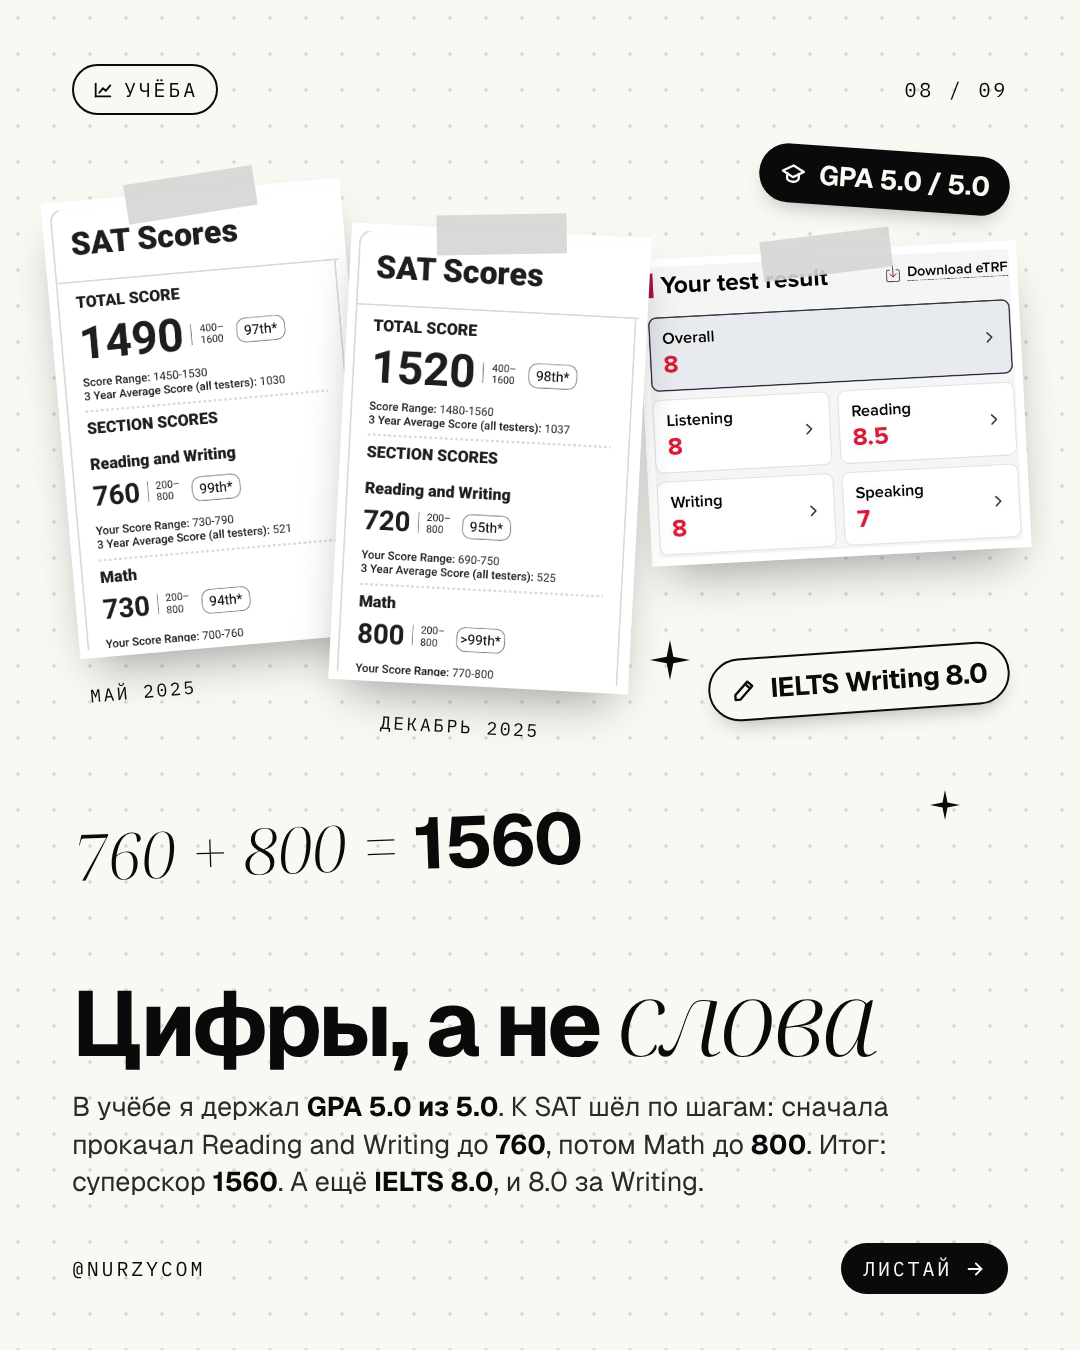
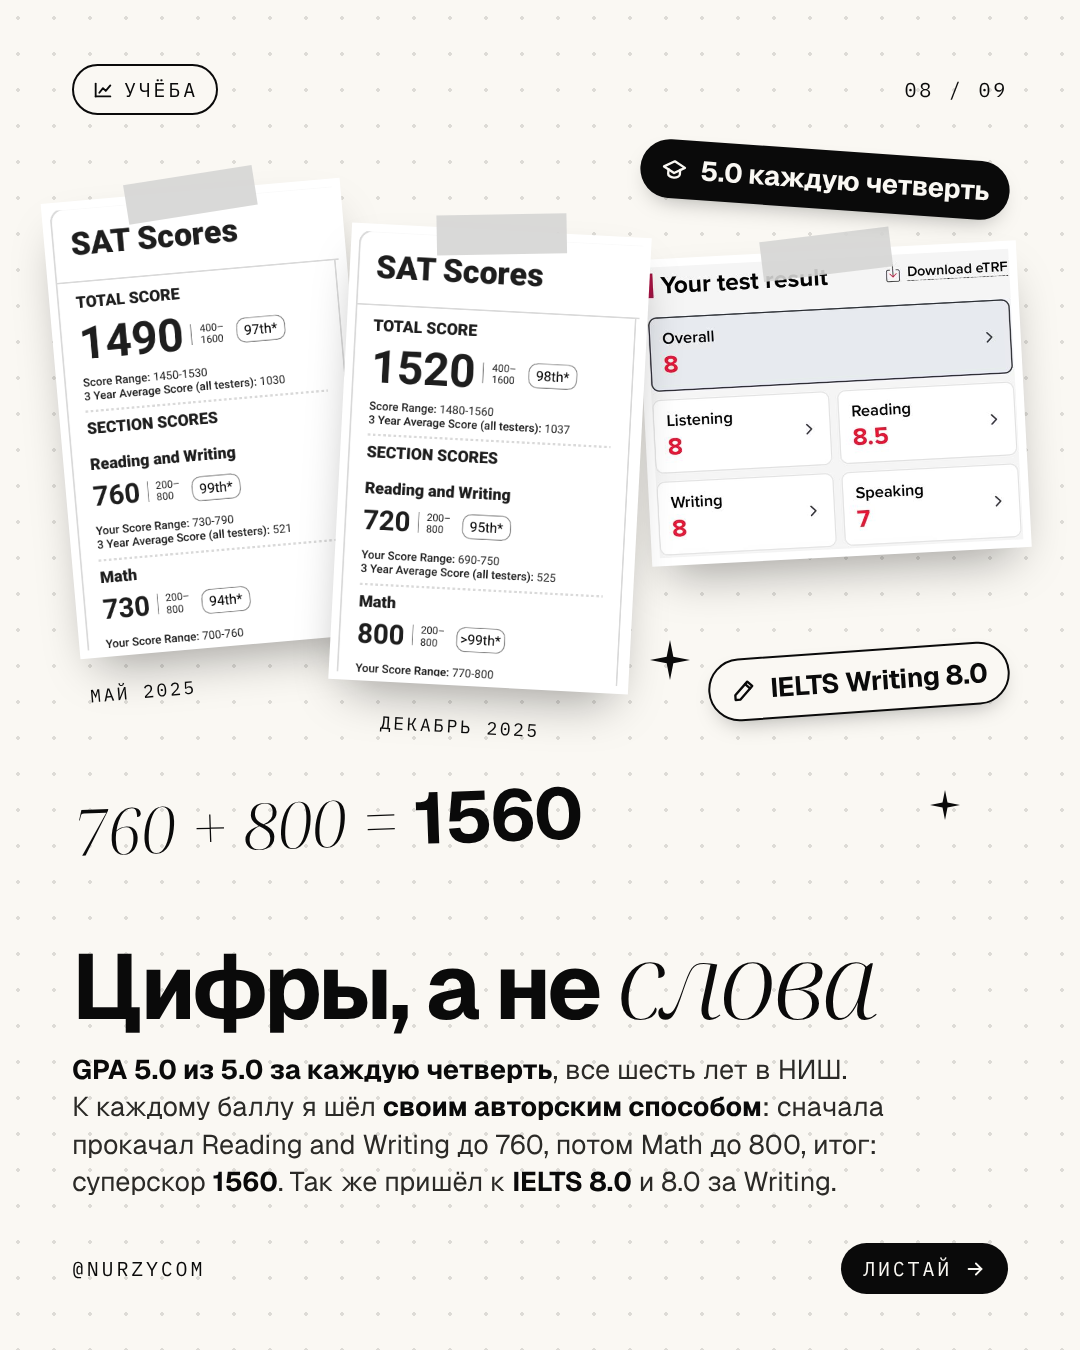
Story slide 8: GPA every quarter, scores reached with his own method
Claude-Session: https://claude.ai/code/session_01EUKBNPzc7y2DXSfnei23HU

diff --git a/social/story/slide-08.html b/social/story/slide-08.html
@@ -61,7 +61,7 @@
   .swipe { display: inline-flex; align-items: center; gap: 12px; padding: 12px 22px; background: var(--ink); color: var(--paper); border-radius: 999px; }
   svg.i { fill: none; stroke: currentColor; stroke-width: 2; stroke-linecap: round; stroke-linejoin: round; }
   .text { position: absolute; left: 72px; right: 72px; bottom: 150px; }
-  .text .sub { max-width: 48ch; font-size: 27px; line-height: 1.38; }
+  .text .sub { max-width: 50ch; font-size: 27px; line-height: 1.38; }
   .doc { position: absolute; background: #fff; padding: 8px; box-shadow: 0 24px 50px -18px rgba(10,10,10,.4); }
   .doc img { display: block; width: 100%; }
   .d1 { left: 60px; top: 190px; width: 300px; transform: rotate(-5deg); }
@@ -75,7 +75,7 @@
   .sticker svg { width: 28px; height: 28px; }
   .s1 { top: 150px; right: 70px; transform: rotate(4deg); }
   .s2 { top: 650px; right: 70px; transform: rotate(-4deg); }
-  .sum { position: absolute; top: 800px; left: 72px; z-index: 3; font: 300 italic 64px/1.1 var(--serif); transform: rotate(-2deg); }
+  .sum { position: absolute; top: 775px; left: 72px; z-index: 3; font: 300 italic 64px/1.1 var(--serif); transform: rotate(-2deg); }
   .sum b { font: 700 72px var(--sans); letter-spacing: -.02em; font-style: normal; }
   .sp1 { top: 640px; left: 650px; z-index: 3; }
   .sp2 { top: 790px; right: 120px; width: 30px; height: 30px; }
@@ -94,7 +94,7 @@
   <span class="cap c1">май 2025</span>
   <span class="cap c2">декабрь 2025</span>
 
-  <span class="sticker s-dark s1"><svg class="i" viewBox="0 0 24 24"><path d="M3 10l9-5 9 5-9 5z"/><path d="M7 12v4c0 1.5 2.2 3 5 3s5-1.5 5-3v-4"/></svg>GPA 5.0 / 5.0</span>
+  <span class="sticker s-dark s1"><svg class="i" viewBox="0 0 24 24"><path d="M3 10l9-5 9 5-9 5z"/><path d="M7 12v4c0 1.5 2.2 3 5 3s5-1.5 5-3v-4"/></svg>5.0 каждую четверть</span>
   <span class="sticker s-light s2"><svg class="i" viewBox="0 0 24 24"><path d="M4 20h4L19 9l-4-4L4 16z"/><path d="M13 7l4 4"/></svg>IELTS Writing 8.0</span>
 
   <div class="sum">760 + 800 = <b>1560</b></div>
@@ -103,7 +103,7 @@
 
   <div class="text">
     <h1>Цифры, а не <em>слова</em></h1>
-    <p class="sub">В учёбе я держал <b>GPA 5.0 из 5.0</b>. К SAT шёл по шагам: сначала прокачал Reading and Writing до <b>760</b>, потом Math до <b>800</b>. Итог: суперскор <b>1560</b>. А ещё <b>IELTS 8.0</b>, и 8.0 за Writing.</p>
+    <p class="sub"><b>GPA 5.0 из 5.0 за каждую четверть</b>, все шесть лет в НИШ. К&nbsp;каждому баллу я шёл <b>своим авторским способом</b>: сначала прокачал Reading and Writing до 760, потом Math до 800, итог: суперскор <b>1560</b>. Так же пришёл к <b>IELTS 8.0</b> и 8.0 за Writing.</p>
   </div>
 
   <div class="foot">
